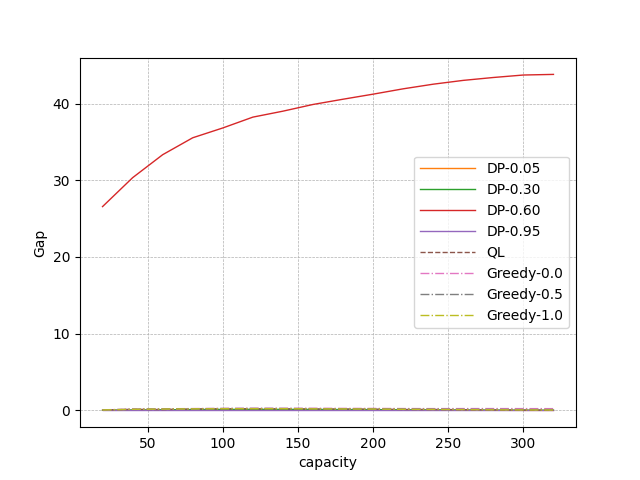
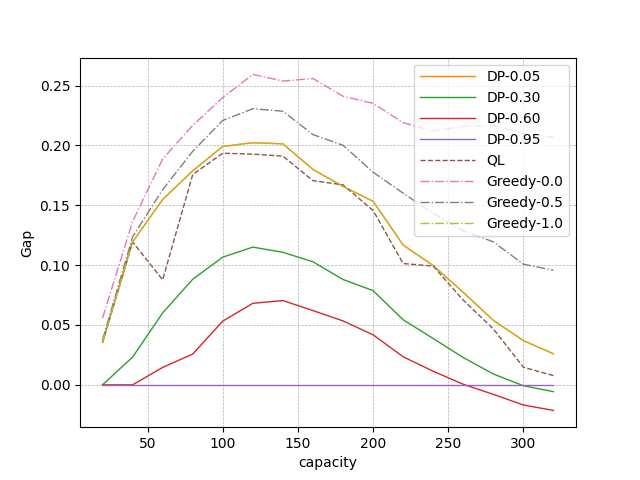
check-capacity gap

diff --git a/Single-Provider-Federation/v1-no-constraint/gap_plotter_rand_DPs.py b/Single-Provider-Federation/v1-no-constraint/gap_plotter_rand_DPs.py
@@ -45,7 +45,7 @@ for data in results:
     QL_tmp = gap(DP_95_tmp, QL_tmp)
     DP_05_tmp = gap(DP_95_tmp, DP_05_tmp)
     DP_30_tmp = gap(DP_95_tmp, DP_30_tmp)
-    DP_05_tmp = gap(DP_95_tmp, DP_60_tmp)
+    DP_60_tmp = gap(DP_95_tmp, DP_60_tmp)
     DP_95_tmp = gap(DP_95_tmp, DP_95_tmp)
 
     greedy_000.append(greedy_000_tmp)
